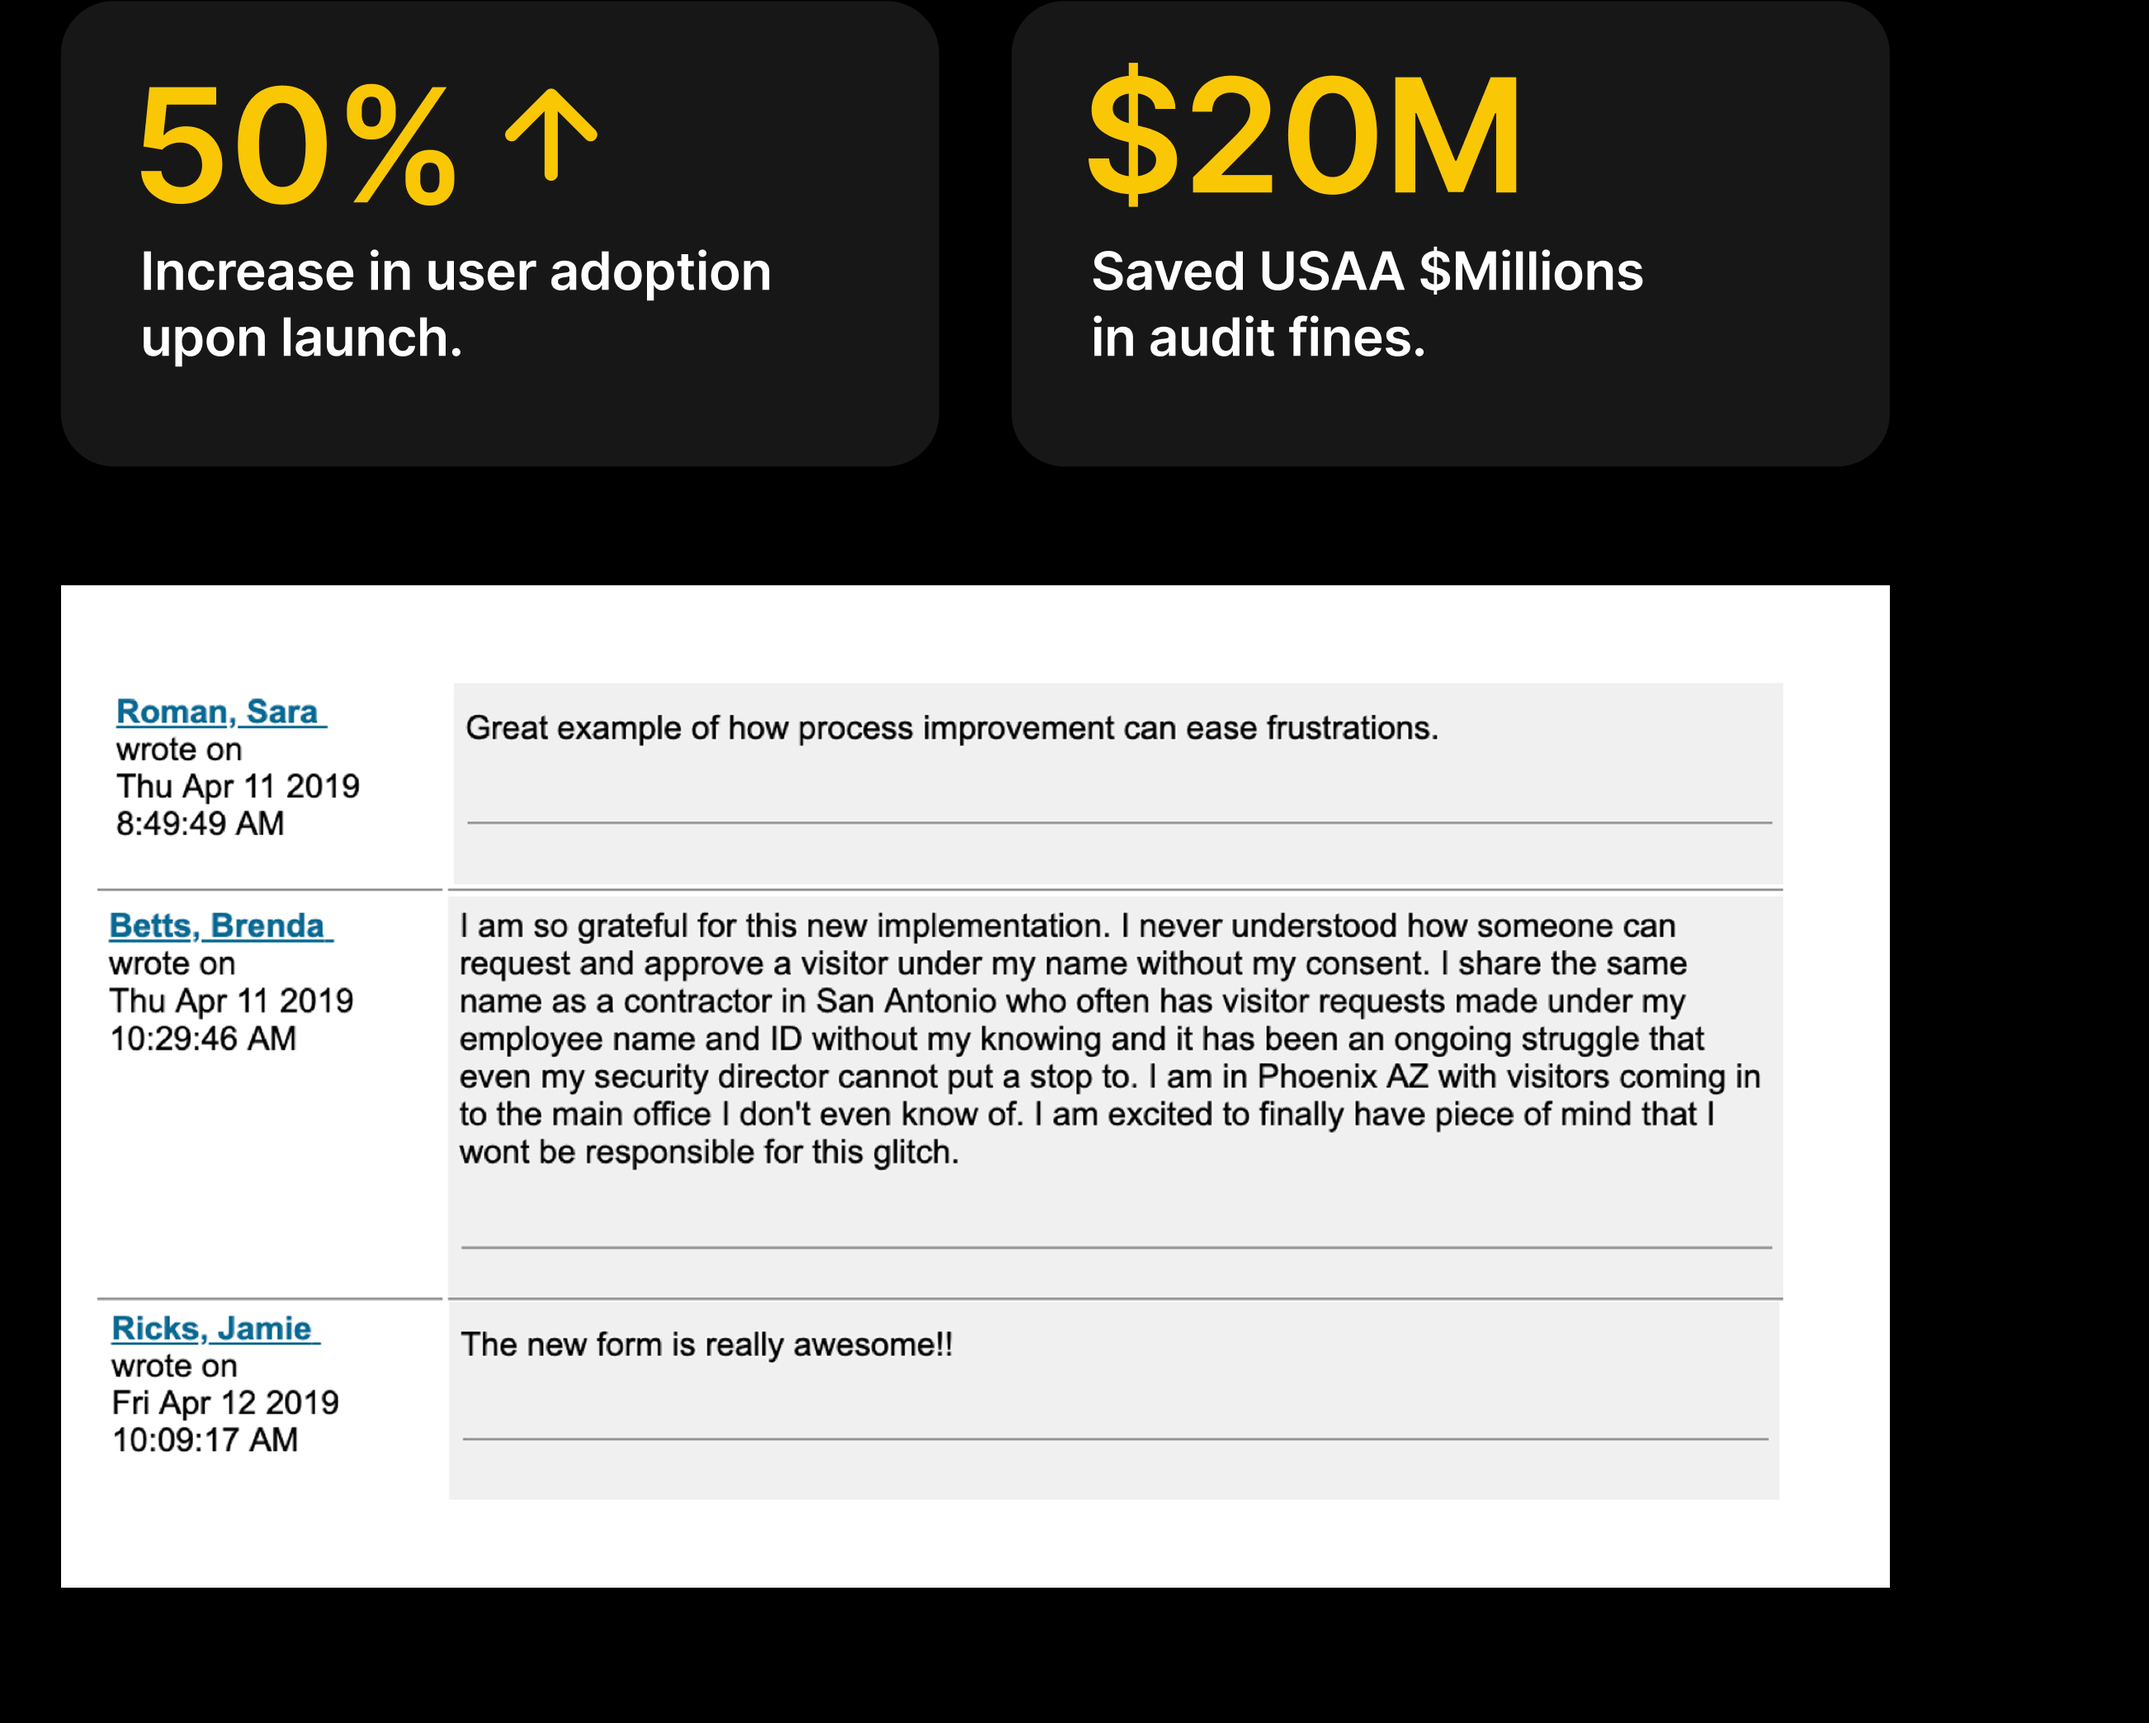
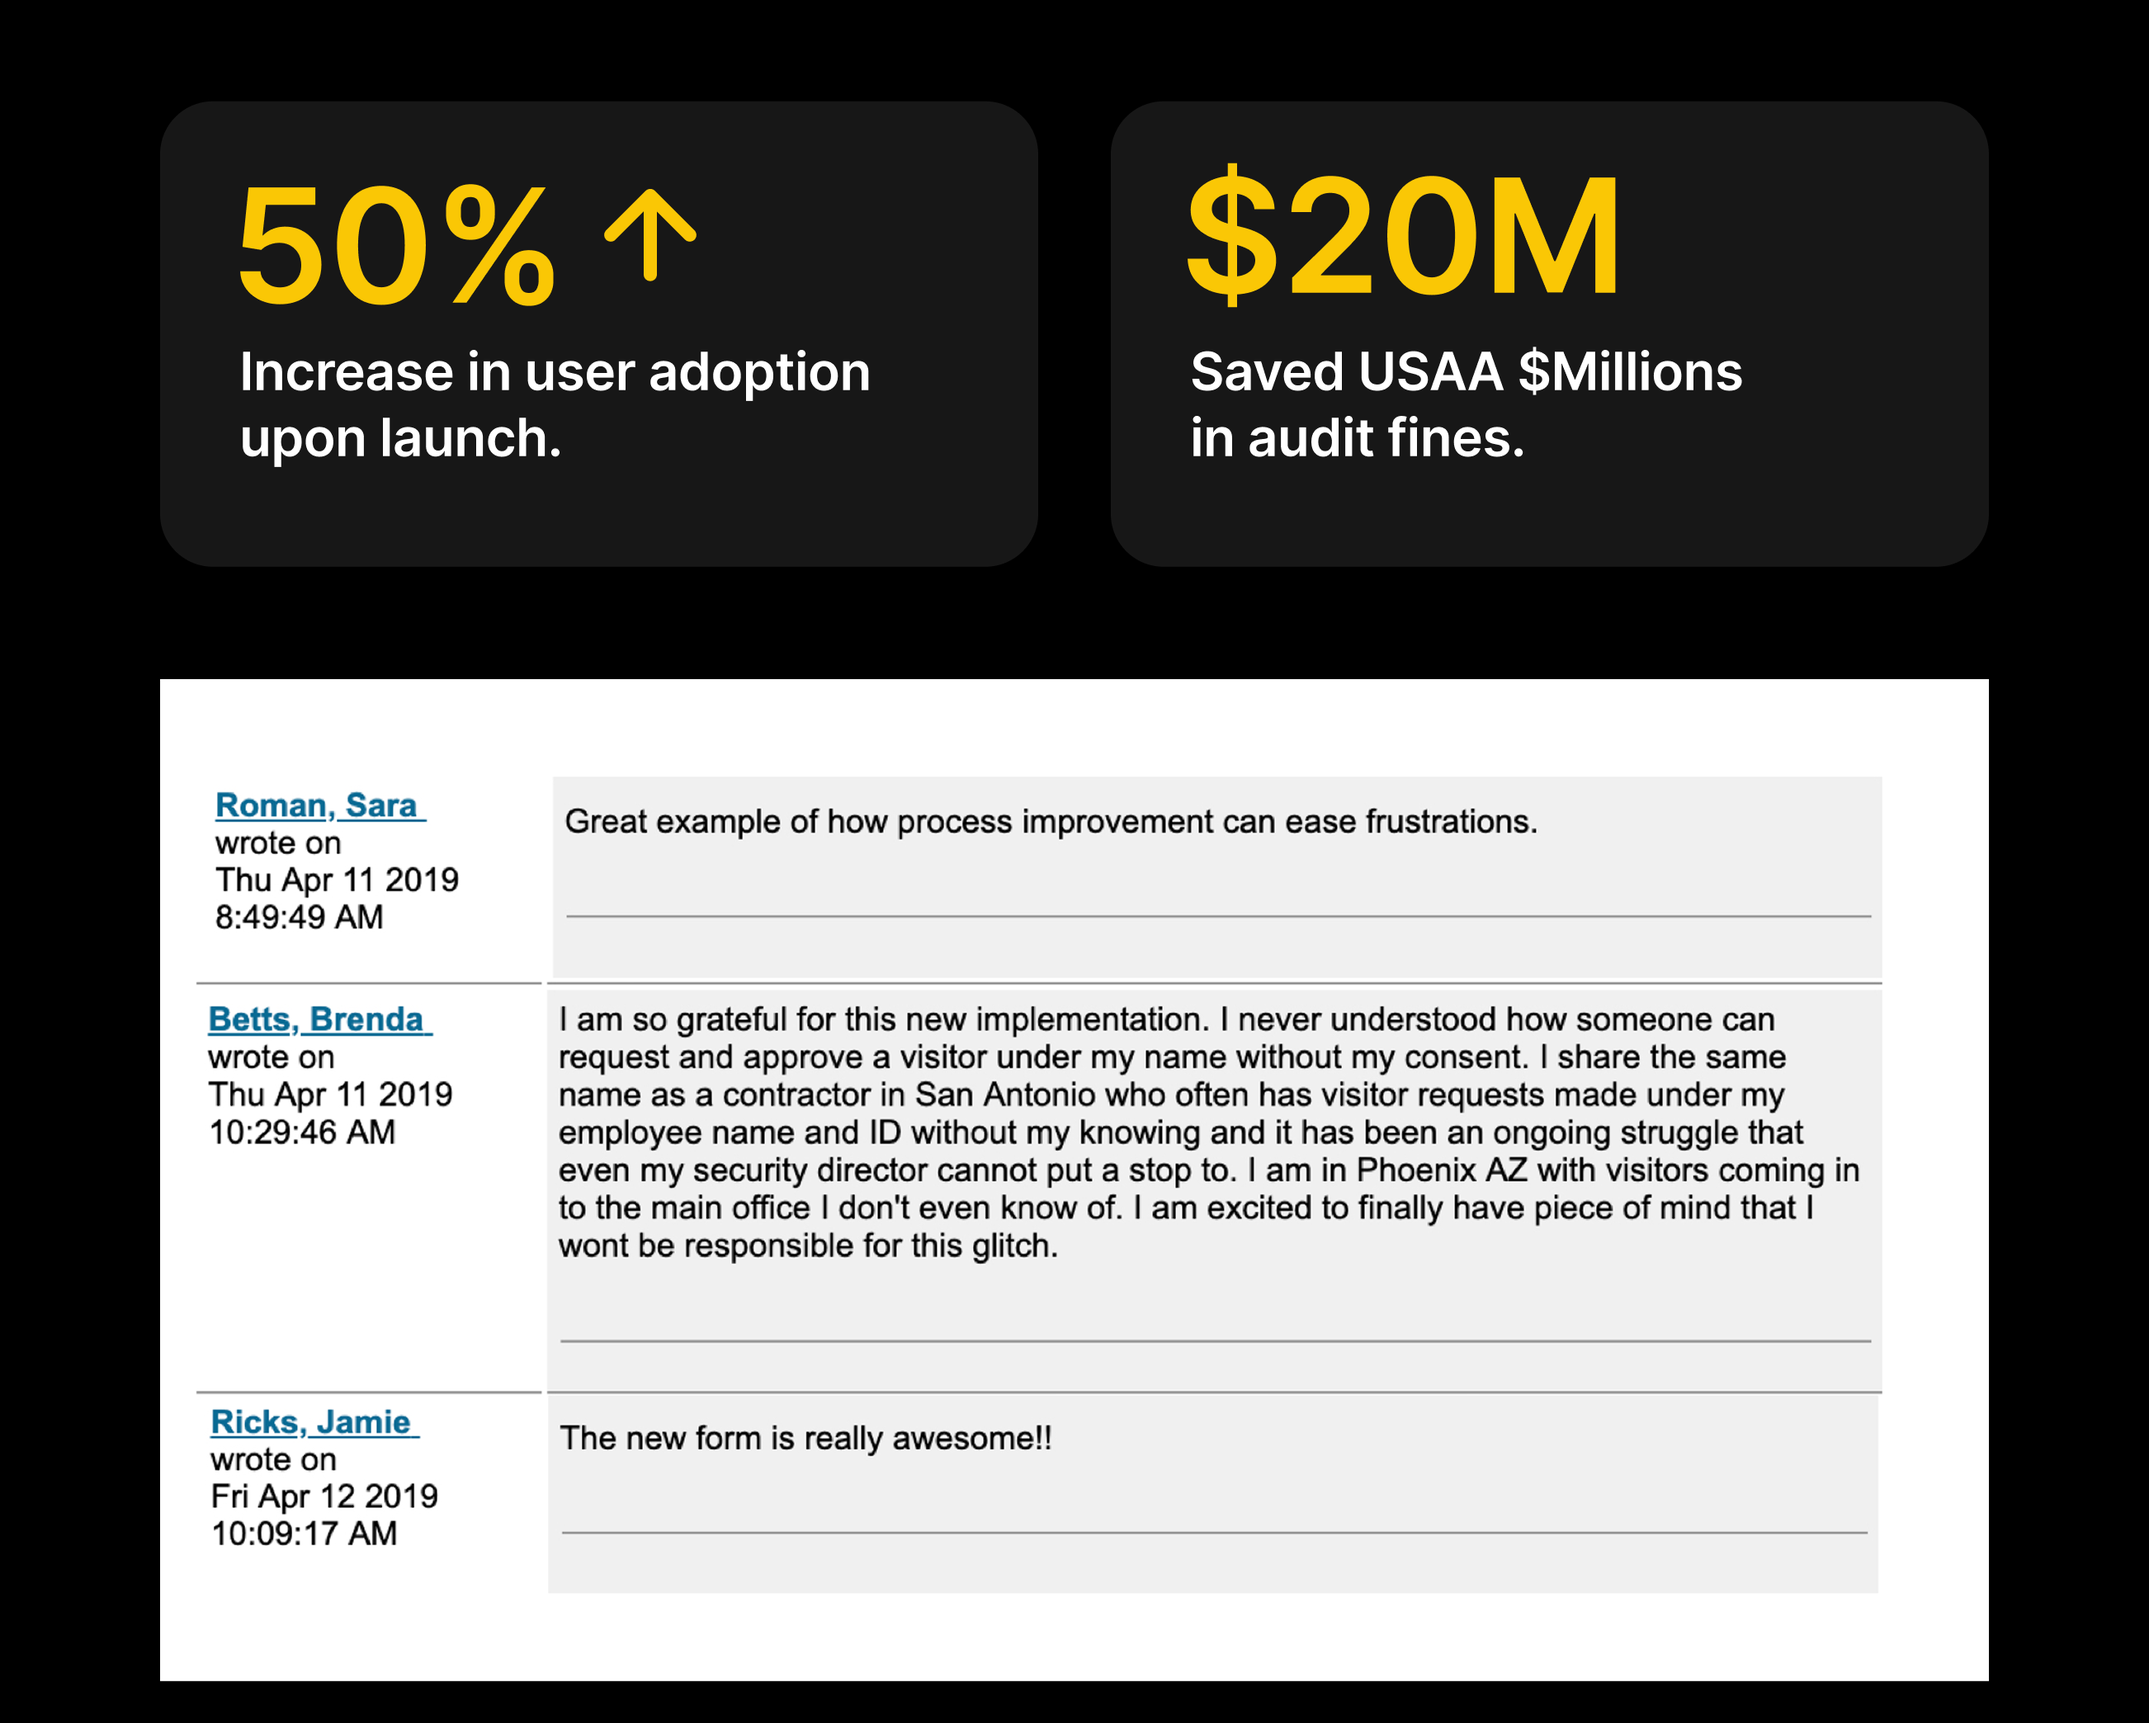
“splitfix”

diff --git a/src/app/components/case-study/CaseStudySections.tsx b/src/app/components/case-study/CaseStudySections.tsx
@@ -190,7 +190,7 @@ function ResultCards({ section }: { section: CaseStudyResultCardsSection }) {
   const accent = section.accentColor ?? "#00e5ff";
   return (
     <div className="flex flex-col lg:flex-row min-h-[600px] bg-[#0a0a0a]">
-      <div className="flex flex-1 flex-col justify-center gap-5 px-8 py-20 sm:px-12 lg:px-16">
+      <div className="flex flex-1 flex-col justify-center gap-5 px-8 py-20 sm:px-12 lg:px-16 bg-[#0a0a0a]">
         {section.heading && (
           <h2 className="max-w-full leading-tight whitespace-pre-line" style={ts(section.headingStyle, S.heading)}>
             {section.heading}
